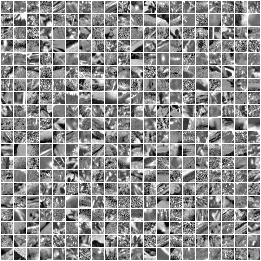
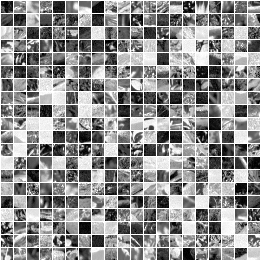
Linear Decoder with Auto-encoder

diff --git a/linear_decoder_exercise.py b/linear_decoder_exercise.py
@@ -1,0 +1,128 @@
+import numpy as np
+import sparse_autoencoder
+import gradient
+import scipy.io
+import display_network
+import scipy.optimize
+import cPickle
+
+##======================================================================
+## STEP 0: Initialization
+#  Here we initialize some parameters used for the exercise.
+
+image_channels = 3  # number of channels (rgb, so 3)
+
+patch_dim = 8  # patch dimension
+num_patches = 100000  # number of patches
+
+visible_size = patch_dim * patch_dim * image_channels  # number of input units
+output_size = visible_size  # number of output units
+hidden_size = 400  # number of hidden units
+
+sparsity_param = 0.035  # desired average activation of the hidden units.
+lambda_ = 3e-3  # weight decay parameter
+beta = 5  # weight of sparsity penalty term
+
+epsilon = 0.1  # epsilon for ZCA whitening
+
+##======================================================================
+## STEP 1: Create and modify sparseAutoencoderLinearCost.m to use a linear decoder,
+#          and check gradients
+#  You should copy sparseAutoencoderCost.m from your earlier exercise
+#  and rename it to sparseAutoencoderLinearCost.m.
+#  Then you need to rename the function from sparseAutoencoderCost to
+#  sparseAutoencoderLinearCost, and modify it so that the sparse autoencoder
+#  uses a linear decoder instead. Once that is done, you should check
+# your gradients to verify that they are correct.
+
+# NOTE: Modify sparseAutoencoderCost first!
+
+# To speed up gradient checking, we will use a reduced network and some
+# dummy patches
+
+debug_hidden_size = 5
+debug_visible_size = 8
+patches = np.random.rand(8, 10)
+
+theta = sparse_autoencoder.initialize(debug_hidden_size, debug_visible_size)
+
+cost, grad = sparse_autoencoder.sparse_autoencoder_linear_cost(theta, debug_visible_size, debug_hidden_size,
+                                                               lambda_, sparsity_param, beta, patches)
+
+# Check gradients
+J = lambda x: sparse_autoencoder.sparse_autoencoder_linear_cost(x, debug_visible_size, debug_hidden_size,
+                                                                lambda_, sparsity_param, beta, patches)
+num_grad = gradient.compute_gradient(J, theta)
+
+print grad, num_grad
+
+# Compare numerically computed gradients with the ones obtained from backpropagation
+diff = np.linalg.norm(num_grad - grad) / np.linalg.norm(num_grad + grad)
+print diff
+print "Norm of the difference between numerical and analytical num_grad (should be < 1e-9)\n\n"
+
+##======================================================================
+## STEP 2: Learn features on small patches
+#  In this step, you will use your sparse autoencoder (which now uses a
+#  linear decoder) to learn features on small patches sampled from related
+#  images.
+
+## STEP 2a: Load patches
+#  In this step, we load 100k patches sampled from the STL10 dataset and
+#  visualize them. Note that these patches have been scaled to [0,1]
+
+patches = scipy.io.loadmat('data/stlSampledPatches.mat')['patches']
+
+display_network.display_color_network(patches[:, 0:100], filename='patches_raw.png')
+
+
+## STEP 2b: Apply preprocessing
+#  In this sub-step, we preprocess the sampled patches, in particular,
+#  ZCA whitening them.
+#
+#  In a later exercise on convolution and pooling, you will need to replicate
+#  exactly the preprocessing steps you apply to these patches before
+#  using the autoencoder to learn features on them. Hence, we will save the
+#  ZCA whitening and mean image matrices together with the learned features
+#  later on.
+
+# Subtract mean patch (hence zeroing the mean of the patches)
+patch_mean = np.mean(patches, 1)
+patches = patches - np.tile(patch_mean, (patches.shape[1], 1)).transpose()
+
+# Apply ZCA whitening
+sigma = patches.dot(patches.transpose()) / patches.shape[1]
+(u, s, v) = np.linalg.svd(sigma)
+zca_white = u.dot(np.diag(1 / (s + epsilon))).dot(u.transpose())
+patches_zca = zca_white.dot(patches)
+
+display_network.display_color_network(patches_zca[:, 0:100], filename='patches_zca.png')
+
+## STEP 2c: Learn features
+#  You will now use your sparse autoencoder (with linear decoder) to learn
+#  features on the preprocessed patches. This should take around 45 minutes.
+
+theta = sparse_autoencoder.initialize(hidden_size, visible_size)
+
+options_ = {'maxiter': 400, 'disp': True}
+
+J = lambda x: sparse_autoencoder.sparse_autoencoder_linear_cost(x, visible_size, hidden_size,
+                                                                lambda_, sparsity_param, beta, patches_zca)
+
+result = scipy.optimize.minimize(J, theta, method='L-BFGS-B', jac=True, options=options_)
+opt_theta = result.x
+print result
+
+# Save the learned features and the preprocessing matrices for use in
+# the later exercise on convolution and pooling
+print('Saving learned features and preprocessing matrices...')
+with open('stl10_features.pickle') as f:
+    cPickle.dump(opt_theta, f)
+    cPickle.dump(zca_white, f)
+    cPickle.dump(patch_mean, f)
+print('Saved.')
+
+## STEP 2d: Visualize learned features
+W = opt_theta[0:hidden_size * visible_size].reshape(hidden_size, visible_size)
+b = opt_theta[2 * hidden_size * visible_size:2 * hidden_size * visible_size + hidden_size]
+display_network.display_color_network(W.dot(zca_white).transpose(), 'patches_zca_features.png')

diff --git a/sparse_autoencoder.py b/sparse_autoencoder.py
@@ -116,3 +116,69 @@ def sparse_autoencoder(theta, hidden_size, visible_size, data):
     a2 = sigmoid(z2)
 
     return a2
+
+
+# visible_size: the number of input units (probably 64)
+# hidden_size: the number of hidden units (probably 25)
+# lambda_: weight decay parameter
+# sparsity_param: The desired average activation for the hidden units (denoted in the lecture
+#                            notes by the greek alphabet rho, which looks like a lower-case "p").
+# beta: weight of sparsity penalty term
+# data: Our 64x10000 matrix containing the training data.  So, data(:,i) is the i-th training example.
+#
+# The input theta is a vector (because minFunc expects the parameters to be a vector).
+# We first convert theta to the (W1, W2, b1, b2) matrix/vector format, so that this
+# follows the notation convention of the lecture notes.
+# Returns: (cost,gradient) tuple
+def sparse_autoencoder_linear_cost(theta, visible_size, hidden_size,
+                                   lambda_, sparsity_param, beta, data):
+    # The input theta is a vector (because minFunc expects the parameters to be a vector).
+    # We first convert theta to the (W1, W2, b1, b2) matrix/vector format, so that this
+    # follows the notation convention of the lecture notes.
+
+    W1 = theta[0:hidden_size * visible_size].reshape(hidden_size, visible_size)
+    W2 = theta[hidden_size * visible_size:2 * hidden_size * visible_size].reshape(visible_size, hidden_size)
+    b1 = theta[2 * hidden_size * visible_size:2 * hidden_size * visible_size + hidden_size]
+    b2 = theta[2 * hidden_size * visible_size + hidden_size:]
+
+    # Number of training examples
+    m = data.shape[1]
+
+    # Forward propagation
+    z2 = W1.dot(data) + np.tile(b1, (m, 1)).transpose()
+    a2 = sigmoid(z2)
+    z3 = W2.dot(a2) + np.tile(b2, (m, 1)).transpose()
+    h = z3
+
+    # Sparsity
+    rho_hat = np.sum(a2, axis=1) / m
+    rho = np.tile(sparsity_param, hidden_size)
+
+
+    # Cost function
+    cost = np.sum((h - data) ** 2) / (2 * m) + \
+           (lambda_ / 2) * (np.sum(W1 ** 2) + np.sum(W2 ** 2)) + \
+           beta * np.sum(KL_divergence(rho, rho_hat))
+
+
+
+    # Backprop
+    sparsity_delta = np.tile(- rho / rho_hat + (1 - rho) / (1 - rho_hat), (m, 1)).transpose()
+
+    delta3 = -(data - h)
+    delta2 = (W2.transpose().dot(delta3) + beta * sparsity_delta) * sigmoid_prime(z2)
+    W1grad = delta2.dot(data.transpose()) / m + lambda_ * W1
+    W2grad = delta3.dot(a2.transpose()) / m + lambda_ * W2
+    b1grad = np.sum(delta2, axis=1) / m
+    b2grad = np.sum(delta3, axis=1) / m
+
+    # After computing the cost and gradient, we will convert the gradients back
+    # to a vector format (suitable for minFunc).  Specifically, we will unroll
+    # your gradient matrices into a vector.
+    grad = np.concatenate((W1grad.reshape(hidden_size * visible_size),
+                           W2grad.reshape(hidden_size * visible_size),
+                           b1grad.reshape(hidden_size),
+                           b2grad.reshape(visible_size)))
+
+    return (cost, grad)
+

diff --git a/display_network.py b/display_network.py
@@ -1,6 +1,7 @@
 import numpy as np
 import matplotlib.pyplot as plt
 import matplotlib
+import PIL
 
 # This function visualizes filters in matrix A. Each column of A is a
 # filter. We will reshape each column into a square image and visualizes
@@ -50,4 +51,48 @@ def display_network(A, filename='weights.png'):
     plt.imsave(filename, image, cmap=matplotlib.cm.gray)
 
 
+def display_color_network(A, filename='weights.png'):
+    """
+    # display receptive field(s) or basis vector(s) for image patches
+    #
+    # A         the basis, with patches as column vectors
 
+    # In case the midpoint is not set at 0, we shift it dynamically
+
+    :param A:
+    :param file:
+    :return:
+    """
+    if (np.min(A) >= 0):
+        A = A - np.mean(A)
+
+    cols = np.round(np.sqrt(A.shape[1]))
+
+    channel_size = A.shape[0] / 3
+    dim = np.sqrt(channel_size)
+    dimp = dim + 1
+    rows = np.ceil(A.shape[1] / cols)
+
+    B = A[0:channel_size, :]
+    C = A[channel_size:2 * channel_size, :]
+    D = A[2 * channel_size:3 * channel_size, :]
+
+    B = B / np.max(np.abs(B))
+    C = C / np.max(np.abs(C))
+    D = D / np.max(np.abs(D))
+
+    # Initialization of the image
+    image = np.ones(shape=(dim * rows + rows - 1, dim * cols + cols - 1, 3))
+
+    for i in range(int(rows)):
+        for j in range(int(cols)):
+            # This sets the patch
+            image[i * dimp:i * dimp + dim, j * dimp:j * dimp + dim, 0] = B[:, i * cols + j].reshape(dim, dim)
+            image[i * dimp:i * dimp + dim, j * dimp:j * dimp + dim, 1] = C[:, i * cols + j].reshape(dim, dim)
+            image[i * dimp:i * dimp + dim, j * dimp:j * dimp + dim, 2] = D[:, i * cols + j].reshape(dim, dim)
+
+    image = (image + 1) / 2
+
+    PIL.Image.fromarray(np.uint8(image * 255), 'RGB').save(filename)
+
+    return 0

diff --git a/pca_gen.py b/pca_gen.py
@@ -14,13 +14,15 @@ import numpy as np
 patches = sample_images.sample_images_raw()
 num_samples = patches.shape[1]
 random_sel = random.sample(range(num_samples), 400)
-display_network.display_network(patches[:, random_sel])
+display_network.display_network(patches[:, random_sel], 'raw_pca.png')
 
 ##================================================================
 ## Step 0b: Zero-mean the data (by row)
 #  You can make use of the mean and repmat/bsxfun functions.
 
-patches = patches - patches.mean(axis=0)
+# patches = patches - patches.mean(axis=0)
+patch_mean = patches.mean(axis=1)
+patches = patches - np.tile(patch_mean, (patches.shape[1], 1)).transpose()
 
 ##================================================================
 ## Step 1a: Implement PCA to obtain xRot
@@ -39,7 +41,7 @@ patches_rot = u.transpose().dot(patches)
 
 k = 0
 for k in range(s.shape[0]):
-    if (s[0:k].sum() / s.sum() >= 0.99):
+    if s[0:k].sum() / s.sum() >= 0.99:
         break
 print 'Optimal k to retain 99% variance is:', k
 
